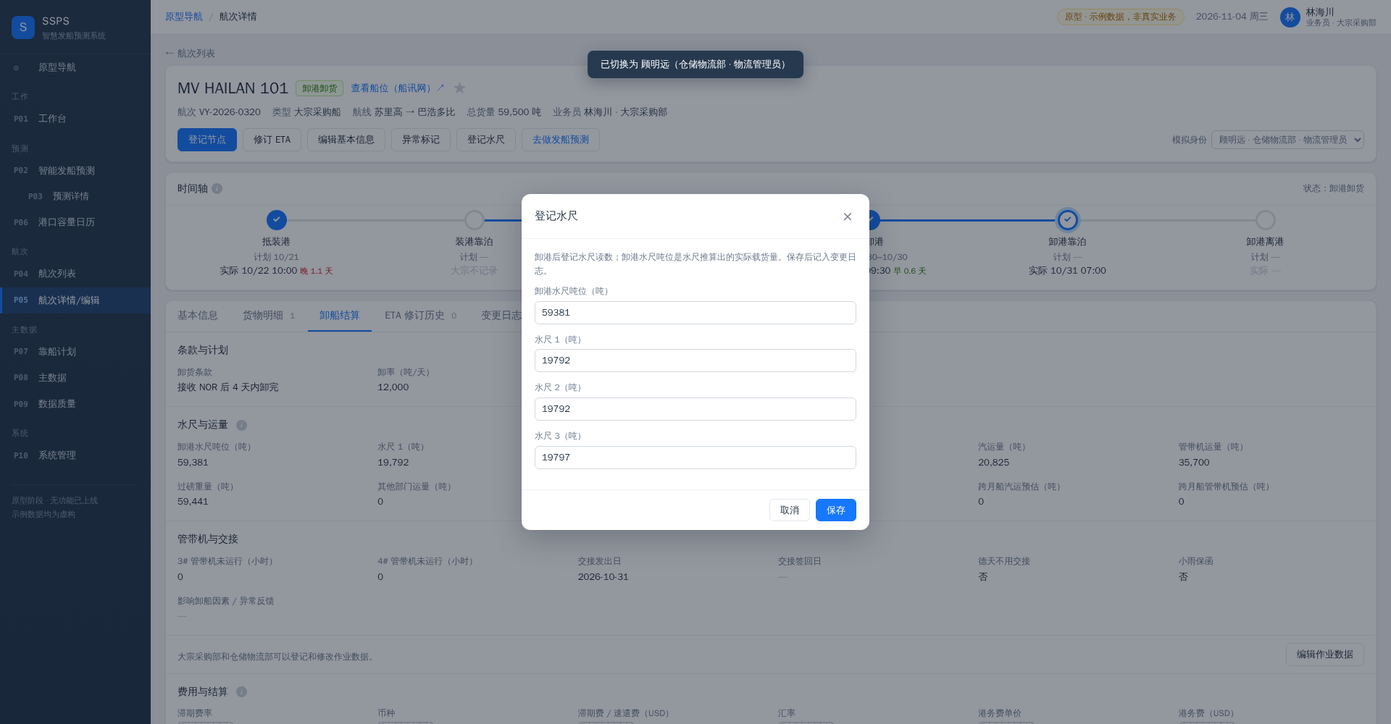
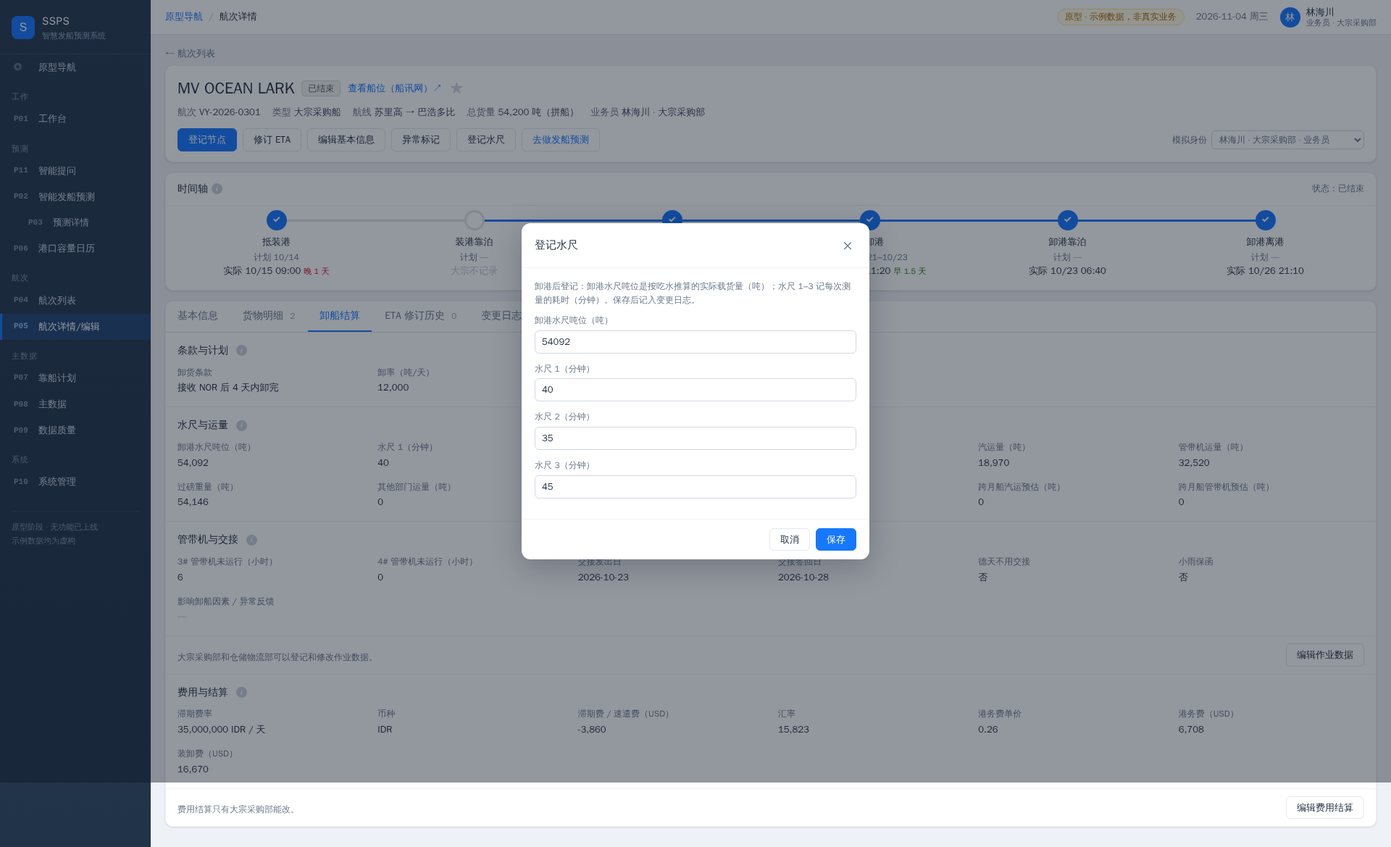
落实外部评审第一轮的业务答复：池内船一律计占用、靠船计划导入过滤、断料按品名/总库存分层、导出表按 17 张；水尺 1–3 单位改为分钟，补小雨保函、CQD 释义
Claude-Session: https://claude.ai/code/session_01S7EgPzREeeBA8rsxhMLUP6

diff --git a/prototype/P05-voyage-detail.html b/prototype/P05-voyage-detail.html
@@ -182,7 +182,7 @@ textarea.inp{height:auto;min-height:60px;padding:6px 9px}
   // 字段分两块：作业数据（水尺、运量、管带机、交接）和费用结算（金额，按部门隔离）
   const OPS = [
     ['条款与计划', [['terms', '卸货条款', 'text'], ['rate', '卸率（吨/天）', 'num'], ['allowDays', '允许卸货天数', 'num'], ['turn', 'TURN TIME（小时）', 'num']]],
-    ['水尺与运量', [['gauge', '卸港水尺吨位（吨）', 'num'], ['g1', '水尺 1（吨）', 'num'], ['g2', '水尺 2（吨）', 'num'], ['g3', '水尺 3（吨）', 'num'], ['truck', '汽运量（吨）', 'num'], ['belt', '管带机运量（吨）', 'num'], ['weigh', '过磅重量（吨）', 'num'], ['other', '其他部门运量（吨）', 'num'], ['carTurn', '倒运车数（车）', 'num'], ['x1Cars', 'X1 管带机车数（车）', 'num'], ['crossTruck', '跨月船汽运预估（吨）', 'num'], ['crossBelt', '跨月船管带机预估（吨）', 'num']]],
+    ['水尺与运量', [['gauge', '卸港水尺吨位（吨）', 'num'], ['g1', '水尺 1（分钟）', 'num'], ['g2', '水尺 2（分钟）', 'num'], ['g3', '水尺 3（分钟）', 'num'], ['truck', '汽运量（吨）', 'num'], ['belt', '管带机运量（吨）', 'num'], ['weigh', '过磅重量（吨）', 'num'], ['other', '其他部门运量（吨）', 'num'], ['carTurn', '倒运车数（车）', 'num'], ['x1Cars', 'X1 管带机车数（车）', 'num'], ['crossTruck', '跨月船汽运预估（吨）', 'num'], ['crossBelt', '跨月船管带机预估（吨）', 'num']]],
     ['管带机与交接', [['beltOff3', '3# 管带机未运行（小时）', 'num'], ['beltOff4', '4# 管带机未运行（小时）', 'num'], ['sendDay', '交接发出日', 'date'], ['backDay', '交接签回日', 'date'], ['noHandover', '德天不用交接', 'bool'], ['rain', '小雨保函', 'bool'], ['issue', '影响卸船因素 / 异常反馈', 'textarea']]],
   ];
   const MONEY = [['demRate', '滞期费率', 'num'], ['demCur', '币种', 'cur'], ['demUsd', '滞期费 / 速遣费（USD）', 'num'], ['fx', '汇率', 'num'], ['portUnit', '港务费单价', 'num'], ['portFee', '港务费（USD）', 'num'], ['loadFee', '装卸费（USD）', 'num']];
@@ -214,7 +214,7 @@ textarea.inp{height:auto;min-height:60px;padding:6px 9px}
     if (!seeMoney()) money = '<div class="sec"><h3>费用与结算' + C.ic('金额类字段按部门隔离：只有大宗采购部（及系统管理员）能看。用右上角的「模拟身份」可以切换体验。') + '</h3><div class="kvg">' + MONEY.map((f) => '<div class="it"><div class="k">' + f[1] + '</div><div class="v"><span class="lock">无权限查看</span></div></div>').join('') + '</div></div>';
     else money = '<div class="sec"><h3>费用与结算' + C.ic('金额类字段按部门隔离：只有大宗采购部（及系统管理员）能看和改。') + '</h3><div class="kvg">' + MONEY.map((f) => itemX('m_' + f[0], f[1], fv(f[2], x[f[0]]) + (f[0] === 'demRate' && x.demCur ? ' ' + x.demCur + ' / 天' : ''), em ? finp(f[2], f[0], x[f[0]]) : null)).join('') + '</div></div>' +
       (canMoney() ? '<div class="bar2"><span class="note2">' + (em ? '编辑中：金额只有大宗采购部能改。' : '费用结算只有大宗采购部能改。') + '</span><span style="display:flex;gap:8px">' + (em ? '<button class="btn" id="xCancel">取消</button><button class="btn primary" id="xSaveMoney">保存费用结算</button>' : '<button class="btn" id="xEditMoney">编辑费用结算</button>') + '</span></div>' : '');
-    return grp(OPS[0][0], OPS[0][1]) + grp(OPS[1][0], OPS[1][1], '水尺是按船的吃水深度推算载货量的测量，卸港后登记。作业数据由大宗采购部和仓储物流部登记，这个权限划分待确认。') + grp(OPS[2][0], OPS[2][1]) + opsBar + money;
+    return grp(OPS[0][0], OPS[0][1], '卸货条款为 CQD（按港口习惯尽快装卸）时没有固定卸率，卸率留空。') + grp(OPS[1][0], OPS[1][1], '卸港水尺吨位是按船的吃水推算的实际载货量（吨）；水尺 1–3 记每次水尺测量的耗时（分钟）。作业数据由大宗采购部和仓储物流部登记，这个权限划分待确认。') + grp(OPS[2][0], OPS[2][1], '小雨保函：雨天装卸货物时出具的责任保证文件，勾选表示本船出具了。') + opsBar + money;
   }
   // 保存：作业数据 / 费用结算 / 销售扩展
   function saveSettle(kind) {
@@ -236,8 +236,8 @@ textarea.inp{height:auto;min-height:60px;padding:6px 9px}
   function gaugeModal() {
     const x = M.bulkSettle[v.id] || {};
     C.modal({ title: '登记水尺', ok: '保存', width: 480, body:
-      '<div class="note2" style="margin:0 0 10px">卸港后登记水尺读数；卸港水尺吨位是水尺推算出的实际载货量。保存后记入变更日志。</div>' +
-      ['gauge:卸港水尺吨位（吨）', 'g1:水尺 1（吨）', 'g2:水尺 2（吨）', 'g3:水尺 3（吨）'].map((q) => { const [k, l] = q.split(':'); return '<div class="field"><div class="f-lab2">' + l + '</div><input class="inp" type="number" step="any" id="g_' + k + '" value="' + (x[k] == null ? '' : x[k]) + '"></div>'; }).join('') + '<div class="errtxt" id="ge"></div>',
+      '<div class="note2" style="margin:0 0 10px">卸港后登记：卸港水尺吨位是按吃水推算的实际载货量（吨）；水尺 1–3 记每次测量的耗时（分钟）。保存后记入变更日志。</div>' +
+      ['gauge:卸港水尺吨位（吨）', 'g1:水尺 1（分钟）', 'g2:水尺 2（分钟）', 'g3:水尺 3（分钟）'].map((q) => { const [k, l] = q.split(':'); return '<div class="field"><div class="f-lab2">' + l + '</div><input class="inp" type="number" step="any" id="g_' + k + '" value="' + (x[k] == null ? '' : x[k]) + '"></div>'; }).join('') + '<div class="errtxt" id="ge"></div>',
       onOk: (m) => { const cur = M.bulkSettle[v.id] || (M.bulkSettle[v.id] = {}); let n = 0;
         for (const k of ['gauge', 'g1', 'g2', 'g3']) { const raw = m.querySelector('#g_' + k).value; if (raw === '') continue; const val = +raw; if (!(val >= 0)) { m.querySelector('#ge').textContent = '水尺数值不能为负'; return false; } if (cur[k] !== val) { log('卸船作业 · ' + ({ gauge: '卸港水尺吨位', g1: '水尺 1', g2: '水尺 2', g3: '水尺 3' })[k], cur[k], val); cur[k] = val; n++; } }
         if (!n) { m.querySelector('#ge').textContent = '没有填写或没有修改'; return false; } C.persist(); ST.tab = 'ext'; render(); C.toast('水尺已登记，已记入变更日志'); } });

diff --git a/prototype/mock-data.js b/prototype/mock-data.js
@@ -393,7 +393,7 @@
   const M = window.MOCK; let i = 0;
   Object.keys(M.bulkSettle).forEach((id) => {
     const x = M.bulkSettle[id], g = x.gauge || 50000; i++;
-    Object.assign(x, { g1: Math.round(g * 0.3333), g2: Math.round(g * 0.3333), g3: g - 2 * Math.round(g * 0.3333), other: 0, carTurn: 150 + i * 6, x1Cars: 40 + i * 2, crossTruck: 0, crossBelt: 0, noHandover: false, fx: 15820 + i * 3, portUnit: 0.26 });
+    Object.assign(x, { g1: 35 + (i % 4) * 5, g2: 30 + (i % 3) * 5, g3: 40 + (i % 5) * 5, other: 0, carTurn: 150 + i * 6, x1Cars: 40 + i * 2, crossTruck: 0, crossBelt: 0, noHandover: false, fx: 15820 + i * 3, portUnit: 0.26 });
   });
 })();
 

diff --git a/docs/implementation-plan.md b/docs/implementation-plan.md
@@ -4,7 +4,7 @@
 
 妙搭版是「智慧发船预测」的新主系统：一期飞书多维表格为主数据、应用为唯一录入入口，约 8 周分三个里程碑上线，与德龙版并行验收后替换。
 
-本计划依据 2026-11-04 的企微导出（15 张表）和 13 轮 grill-me 访谈写成。下表是访谈锁定的决策，后续章节都以它为前提；已在德龙版锁定的业务规则（CMR 口径、23 泊位池、吨级匹配、≤15 天/＞15 天分流、Plan A/B、无数据灰色斜线、详情页 S1 溯源）全部沿用，不重新讨论。
+本计划依据 2026-11-04 的企微导出（17 张表，以 docs/data-profile 摘要为准）和 13 轮 grill-me 访谈写成。下表是访谈锁定的决策，后续章节都以它为前提；已在德龙版锁定的业务规则（CMR 口径、23 泊位池、吨级匹配、≤15 天/＞15 天分流、Plan A/B、无数据灰色斜线、详情页 S1 溯源）全部沿用，不重新讨论。
 
 | 编号 | 决策点 | 锁定结论 |
 | --- | --- | --- |
@@ -139,7 +139,7 @@ flowchart LR
 | 7 | 生效日期 | 日期 | 是 |  |
 | 8 | 备注 | 文本 |  | LN16 按普通 1 万吨泊位处理 |
 
-不在表内的泊位（L1/L2/L3/L5/L9/L10 等）不建行；靠船计划中出现时保留原文并标「非德信池」，不进 CMR。CMR 分母按查询货量取「容量吨级 ≥ 货量」的启用泊位。
+不在表内的泊位（L1/L2/L3/L5/L9/L10 等）不建行；靠船计划中出现时保留原文并标「非德信池」，不进 CMR。池内泊位上的船不论从属单位、不论「是否德信」，一律计入占用（2026-11-05 Leyinet 确认）；「是否德信」只做展示和统计，不参与 CMR。CMR 分母按查询货量取「容量吨级 ≥ 货量」的启用泊位。
 
 ### T03 船舶主档
 
@@ -242,20 +242,20 @@ flowchart LR
 | --- | --- | --- | --- |
 | 1 | 航次 | 双向关联 → T04，唯一 |  |
 | 2 | 卸货条款 | 文本 | 保留原文，如「接收NOR后4天内卸完」 |
-| 3 | 卸率（吨/天） | 数字 | 从「12000吨/天」解析；CQD 留空 |
+| 3 | 卸率（吨/天） | 数字 | 从「12000吨/天」解析；原文为 CQD（按港口习惯尽快装卸，没有固定卸率）时留空，卸货条款里保留 CQD |
 | 4 | 允许卸货天数 | 数字 | 从条款解析 |
 | 5 | TURN TIME（小时） | 数字 | 12 / 24 |
 | 6 | 滞期费率 + 币种 | 数字 + 单选 | 「Rp35,000,000/天」拆为 35000000 + IDR |
 | 7 | 滞期费 / 速遣费（USD） | 数字 |  |
 | 8 | 卸港水尺吨位 | 数字 |  |
-| 9 | 水尺 1–3 | 数字 ×3 | 「4st水尺」整列为空，删除 |
+| 9 | 水尺 1–3 | 数字 ×3 | 原「1st/2st/3st水尺」，单位是分钟（每次水尺测量的耗时，不是吨位）；「4st水尺」整列为空，删除 |
 | 10 | 汇率、港务费单价、港务费（USD）、装卸费（USD） | 数字 | 「$8,010.11」转数字 |
 | 11 | 汽运量、管带机运量、过磅重量、其他部门运量（吨） | 数字 |  |
 | 12 | 倒运车数、X1 管带机车数 | 数字 | 「180车」转数字 |
 | 13 | 跨月船汽运/管带机预估（吨） | 数字 |  |
 | 14 | 3# / 4# 管带机未运行（小时） | 数字 | 2# 整列为空，删除 |
 | 15 | 交接发出日 / 交接签回日 | 日期 | 原「3.17日发出」「2.8日签回」解析；「德天不用交接」落成独立复选框字段 |
-| 16 | 小雨保函 | 复选框 |  |
+| 16 | 小雨保函 | 复选框 | 雨天装卸货物时出具的责任保证文件，勾选表示本船出具了 |
 | 17 | 影响卸船因素/异常反馈 | 多行文本 |  |
 
 删除的大宗字段：整列为空的「价格（到岸价）」「价格类型」「可用管带机」「X1管带机吨位」；由状态替代的「卸船进度」「系统/人工船舶动态」；由公式替代的六个用时文本列和「月份按离港算」；辅助列「今日在港」「公式」「到港日」「业务类型」。
@@ -289,6 +289,8 @@ flowchart LR
 ### T09a / T09b 兼容表、T10 靠船计划（最新一期）
 
 T09a 保留商务海运表原 33 列、T09b 保留大宗到船计划表原 87 列的列名和顺序，每行对应 T05 的一行货物明细，由后端全量重写（每日 15:50 + 航次保存后增量），任何人不可改。T10 只保留预测用到的 IMIP 列（码头、泊位原文、泊位→T02、船名、船长、船舶类型、物资、吨位、预计到港、预计靠泊、预计卸完、从属单位、是否德信、匹配航次→T04、批次号），每次导入整表覆盖。
+
+**靠船计划导入过滤（2026-11-05 Leyinet 同意加过滤，天数暂定）**：每个批次全部原始行照存 D04 快照，只有通过下面两条的行才写入 T10、参与 CMR：① 预计卸完 ≥ 导入当天，已卸完的历史行不进 T10；② 日期合理性：预计到港、预计靠泊、预计卸完任何一项早于导入日 90 天或晚于导入日 90 天，或者预计卸完早于预计靠泊，都标「日期异常」、不进 CMR，并进数据质量清单。90 天为暂定值。
 
 ## 5. 妙搭应用库（PostgreSQL）
 
@@ -402,7 +404,7 @@ m\_port、m\_berth、m\_vessel、m\_voyage、m\_cargo、m\_bulk\_settle、m\_sal
 | A29 | POST | /api/predictions/parse | 自然语言提问解析：关键词识别船型、物料、货量、航线、到港截止日（只解析，不生成数值） | 全 |
 | A30 | GET / POST | /api/inventory, /api/inventory/import | 库存消耗模拟表：查询各物料可用天数与断料日；导入新一期（Excel） | 全 / 物、系 |
 
-**库存断料约束（2026-11-04 新增，K14 已确认纳入一期）**：预测请求可带「物料」。库存消耗模拟表的序列已包含已排定到货，断料日 = 模拟库存首次降到 0 的日期；到港窗口最后一天必须不晚于「断料日 − 缓冲天数」（暂定 3 天）。这是候选过滤的硬约束，不是评分；赶不上时改为「最快到港」并如实提示断料天数。库存提问时候选日期各按自己距今天数分流（≤15 天用靠船计划、＞15 天用航次表），两条路径各自排序，不跨路径比较数值。
+**库存断料约束（2026-11-04 新增，K14 已确认纳入一期）**：预测请求可带「物料」。库存消耗模拟表的序列已包含已排定到货，断料日 = 模拟库存首次降到 0 的日期；到港窗口最后一天必须不晚于「断料日 − 缓冲天数」（暂定 3 天）。物料层级：提问里说出具体品名（如烧结石灰石）就按该品名的序列判断断料，只说物料类型（铁矿 / 焦煤）就按该类型的总库存判断（2026-11-05 Leyinet 同意）。这是候选过滤的硬约束，不是评分；赶不上时改为「最快到港」并如实提示断料天数。库存提问时候选日期各按自己距今天数分流（≤15 天用靠船计划、＞15 天用航次表），两条路径各自排序，不跨路径比较数值。
 
 **预测接口的硬门禁**（沿用德龙版根因教训）：路径只按日期分流（目标到港日距今 ≤15 天 / ＞15 天），不按数据有无分流；规则引擎输出的数值不允许被任何生成式模型改写，宣船文案只能引用引擎结果；容量指标只用 CMR；Plan B 要求 CMR 余量 ≥30%，无完整数据候选时从稀疏候选中取并标「低可信」。
 
@@ -618,4 +620,4 @@ gantt
 - [lark-apps SQL 规范](https://raw.githubusercontent.com/larksuite/cli/main/skills/lark-apps/references/lark-apps-db-execute.md)：PostgreSQL、审计列、RLS
 - [lark-apps 自动化](https://raw.githubusercontent.com/larksuite/cli/main/skills/lark-apps/references/lark-apps-automation.md)：定时 / 记录变更 / Webhook / 审批触发器
 - [飞书开放平台·多维表格使用限制](https://open.larkoffice.com/document/uAjLw4CM/ukTMukTMukTM/bitable/notification.md)：单表记录数、批量与分页上限（该页已标为不再维护）
-- 企微导出文件（2026-11-04，15 张表）：所有行数、填充率与归并估算
+- 企微导出文件（2026-11-04，17 张表）：所有行数、填充率与归并估算

diff --git a/docs/open-questions.md b/docs/open-questions.md
@@ -80,14 +80,15 @@
 
 以下是评审提出、经核对后属于「业务上要你确认」的事项，未确认前一律不自行假定。
 
-- [ ] **「是否德信」怎么判定**：靠船计划原始表有「从属单位」之类的列，但原型里直接把泊位池内的所有行都算占用。要确认：池内泊位上非德信的船是否也算占用？德信的判定规则是什么？
-- [ ] **LN16–LN22 在真实靠船计划里缺失**：若这些泊位在计划表里没有任何行，CMR 会把它们当 100% 空闲，结果偏乐观。要确认它们是真没有船，还是计划表不登记（不登记则需要别的数据源）。
-- [ ] **靠船计划导入过滤**：真实表含 8 月以来的历史行，另有 1 行日期异常（2029 年）。要确认导入时的过滤范围（只取今天前后多少天）和日期合理性校验规则。
-- [ ] **断料按总库存还是按子品名**：库存表同一物料有汇总和子品名多层，按哪一层判断断料？
+- [x] **「是否德信」怎么判定**——2026-11-05 Leyinet 确认：保持原型逻辑，池内泊位上的船不论是否德信都计入占用；「是否德信」只做展示。原问题：：靠船计划原始表有「从属单位」之类的列，但原型里直接把泊位池内的所有行都算占用。要确认：池内泊位上非德信的船是否也算占用？德信的判定规则是什么？
+- [x] **LN16–LN22 在真实靠船计划里缺失**——2026-11-05 Leyinet：不用考虑，按现有规则计算。原问题：：若这些泊位在计划表里没有任何行，CMR 会把它们当 100% 空闲，结果偏乐观。要确认它们是真没有船，还是计划表不登记（不登记则需要别的数据源）。
+- [x] **靠船计划导入过滤**——2026-11-05 Leyinet 同意加过滤。已写入实施计划 T10 一节：全部原始行存 D04，只有「预计卸完 ≥ 导入当天」且日期在导入日前后 90 天内（暂定）的行进 T10、参与 CMR，异常行进数据质量清单。90 天这个数待你确认。原问题：：真实表含 8 月以来的历史行，另有 1 行日期异常（2029 年）。要确认导入时的过滤范围（只取今天前后多少天）和日期合理性校验规则。
+- [x] **断料按总库存还是按子品名**——2026-11-05 Leyinet 同意原型做法：说了具体品名按该品名判断，只说类型（铁矿 / 焦煤）按该类型总库存判断。原问题：：库存表同一物料有汇总和子品名多层，按哪一层判断断料？
 - [ ] **错误值行（#VALUE! 等）**：约 248 行为公式错误。原型按「标记、不参与计算」，要确认业务上是否认可，还是需要回填。
 - [ ] **生铁序列长度**：生铁有 226 行，远长于其他品名，要确认是真实的长周期模拟还是误填。
 - [ ] **可用天数公式**：库存表的「可用天数」绝大多数等于 库存 / 日耗，有约 114 行不一致，要确认以哪个为准（原型自己算）。
-- [ ] **术语表**：使用单位（DSI / DCI / DXI / 金瑞）、水尺 1st/2st/3st、X1 管带机 / 车数、交接状态、小雨保函、CQD、储运 1/2/3 的准确含义，由你补一份中文释义，避免实现时猜。
+- [x] **术语（已答部分）**——2026-11-05 Leyinet：水尺 1st/2st/3st 单位是分钟（每次测量耗时，不是吨位）；小雨保函 = 雨天装卸货物时出具的责任保证文件；CQD = 按港口习惯尽快装卸（无固定卸率）。已改 T06、建表清单和 P05 原型（原型原先把水尺 1–3 标成了吨，已更正）。
+- [ ] **术语（还没答）**：使用单位 DSI / DCI / DXI / 金瑞分别指哪个厂区或公司；X1 管带机、X1 管带机车数指什么；交接状态 1 / 2 的取值和含义；储运 1 / 2 / 3 指什么。
 - [ ] **海船与驳船泊位**：CMR 分母里是否区分海船泊位和驳船泊位；吨级档（T08）原型暂未使用，属于已知简化。
-- [ ] **导出表数量口径**：文档里写「15 张表」，摘要里分了 17 节（含 7 个「不同步」表）。请确认「15」指的是哪 15 张，以便迁移清单对齐。
+- [x] **导出表数量口径**——2026-11-05 Leyinet：以摘要为准，按 17 张表，文档已改。原问题：：文档里写「15 张表」，摘要里分了 17 节（含 7 个「不同步」表）。请确认「15」指的是哪 15 张，以便迁移清单对齐。
 - [ ] **请把两份真实文件作为附件发到会话里**（只做核对，不提交）：导入靠船计划 20261104.xlsx、德信物流船舶动态表.xlsx，以及《泊位容量表》（2026-10-08，T02 需要）。

diff --git a/docs/schema/base-build-checklist.md b/docs/schema/base-build-checklist.md
@@ -196,14 +196,14 @@
 | --- | --- | --- | --- | --- |
 | 1 | 航次 | 双向关联 → T04，唯一 | 关联 |  |
 | 2 | 卸货条款 | 文本 | 作业 | 保留原文，如「接收NOR后4天内卸完」 |
-| 3 | 卸率（吨/天） | 数字 | 作业 | 从「12000吨/天」解析；CQD 留空 |
+| 3 | 卸率（吨/天） | 数字 | 作业 | 从「12000吨/天」解析；CQD（按港口习惯尽快装卸）时留空 |
 | 4 | 允许卸货天数 | 数字 | 作业 | 从条款解析 |
 | 5 | TURN TIME（小时） | 数字 | 作业 | 12 / 24 |
 | 6 | 滞期费率 | 数字 | 费用 | 「Rp35,000,000/天」拆为 35000000 |
 | 7 | 币种 | 单选 | 费用 | IDR / USD |
 | 8 | 滞期费 / 速遣费（USD） | 数字 | 费用 |  |
 | 9 | 卸港水尺吨位 | 数字 | 作业 |  |
-| 10 | 水尺 1、水尺 2、水尺 3 | 数字 ×3 | 作业 | 「4st水尺」整列为空，已删除 |
+| 10 | 水尺 1、水尺 2、水尺 3 | 数字 ×3 | 作业 | 单位：分钟（每次水尺测量耗时），字段名可写成「水尺 1（分钟）」；「4st水尺」整列为空，已删除 |
 | 11 | 汇率 | 数字 | 费用 |  |
 | 12 | 港务费单价 | 数字 | 费用 |  |
 | 13 | 港务费（USD） | 数字 | 费用 | 「$8,010.11」转数字 |
@@ -214,7 +214,7 @@
 | 18 | 3# 管带机未运行（小时）、4# 管带机未运行（小时） | 数字 ×2 | 作业 | 2# 整列为空，已删除 |
 | 19 | 交接发出日、交接签回日 | 日期 ×2 | 作业 | 原「3.17日发出」「2.8日签回」解析 |
 | 20 | 德天不用交接 | 复选框 | 作业 | 新增，原文「德天不用交接」单独标记 |
-| 21 | 小雨保函 | 复选框 | 作业 |  |
+| 21 | 小雨保函 | 复选框 | 作业 | 雨天装卸货物时出具的责任保证文件 |
 | 22 | 影响卸船因素/异常反馈 | 多行文本 | 作业 |  |
 
 - 本表的序号是清单自己的，不对应规格文件里的序号（规格里有几行合并了多个字段）。
@@ -260,7 +260,7 @@
 | --- | --- | --- | --- |
 | 1 | 码头 | 文本 |  |
 | 2 | 泊位原文 | 文本 | 靠船计划里的原始写法 |
-| 3 | 泊位 | 单向关联 → T02 | 表外泊位留空，留空即视为「非德信池」，不计入泊位余量 |
+| 3 | 泊位 | 单向关联 → T02 | 表外泊位留空，留空即视为「非德信池」，不计入泊位余量；池内泊位上的船不论是否德信都计入占用 |
 | 4 | 船名 | 文本 |  |
 | 5 | 船长 | 数字 |  |
 | 6 | 船舶类型 | 文本 |  |

diff --git a/docs/schema/T06-bulk-settlement.md b/docs/schema/T06-bulk-settlement.md
@@ -4,20 +4,20 @@
 | --- | --- | --- | --- |
 | 1 | 航次 | 双向关联 → T04，唯一 |  |
 | 2 | 卸货条款 | 文本 | 保留原文，如「接收NOR后4天内卸完」 |
-| 3 | 卸率（吨/天） | 数字 | 从「12000吨/天」解析；CQD 留空 |
+| 3 | 卸率（吨/天） | 数字 | 从「12000吨/天」解析；原文为 CQD（按港口习惯尽快装卸，没有固定卸率）时留空，卸货条款里保留 CQD |
 | 4 | 允许卸货天数 | 数字 | 从条款解析 |
 | 5 | TURN TIME（小时） | 数字 | 12 / 24 |
 | 6 | 滞期费率 + 币种 | 数字 + 单选 | 「Rp35,000,000/天」拆为 35000000 + IDR |
 | 7 | 滞期费 / 速遣费（USD） | 数字 |  |
 | 8 | 卸港水尺吨位 | 数字 |  |
-| 9 | 水尺 1–3 | 数字 ×3 | 「4st水尺」整列为空，删除 |
+| 9 | 水尺 1–3 | 数字 ×3 | 原「1st/2st/3st水尺」，单位是分钟（每次水尺测量的耗时，不是吨位）；「4st水尺」整列为空，删除 |
 | 10 | 汇率、港务费单价、港务费（USD）、装卸费（USD） | 数字 | 「$8,010.11」转数字 |
 | 11 | 汽运量、管带机运量、过磅重量、其他部门运量（吨） | 数字 |  |
 | 12 | 倒运车数、X1 管带机车数 | 数字 | 「180车」转数字 |
 | 13 | 跨月船汽运/管带机预估（吨） | 数字 |  |
 | 14 | 3# / 4# 管带机未运行（小时） | 数字 | 2# 整列为空，删除 |
 | 15 | 交接发出日 / 交接签回日 | 日期 | 原「3.17日发出」「2.8日签回」解析；「德天不用交接」落成独立复选框字段 |
-| 16 | 小雨保函 | 复选框 |  |
+| 16 | 小雨保函 | 复选框 | 雨天装卸货物时出具的责任保证文件，勾选表示本船出具了 |
 | 17 | 影响卸船因素/异常反馈 | 多行文本 |  |
 
 删除的大宗字段：整列为空的「价格（到岸价）」「价格类型」「可用管带机」「X1管带机吨位」；由状态替代的「卸船进度」「系统/人工船舶动态」；由公式替代的六个用时文本列和「月份按离港算」；辅助列「今日在港」「公式」「到港日」「业务类型」。

diff --git a/docs/schema/T09-T10-compat-and-berth-plan.md b/docs/schema/T09-T10-compat-and-berth-plan.md
@@ -1,3 +1,5 @@
 # T09a / T09b 兼容表、T10 靠船计划（最新一期）
 
 T09a 保留商务海运表原 33 列、T09b 保留大宗到船计划表原 87 列的列名和顺序，每行对应 T05 的一行货物明细，由后端全量重写（每日 15:50 + 航次保存后增量），任何人不可改。T10 只保留预测用到的 IMIP 列（码头、泊位原文、泊位→T02、船名、船长、船舶类型、物资、吨位、预计到港、预计靠泊、预计卸完、从属单位、是否德信、匹配航次→T04、批次号），每次导入整表覆盖。
+
+**靠船计划导入过滤（2026-11-05 Leyinet 同意加过滤，天数暂定）**：每个批次全部原始行照存 D04 快照，只有通过下面两条的行才写入 T10、参与 CMR：① 预计卸完 ≥ 导入当天，已卸完的历史行不进 T10；② 日期合理性：预计到港、预计靠泊、预计卸完任何一项早于导入日 90 天或晚于导入日 90 天，或者预计卸完早于预计靠泊，都标「日期异常」、不进 CMR，并进数据质量清单。90 天为暂定值。

diff --git a/docs/schema/T02-berth.md b/docs/schema/T02-berth.md
@@ -11,4 +11,4 @@
 | 7 | 生效日期 | 日期 | 是 |  |
 | 8 | 备注 | 文本 |  | LN16 按普通 1 万吨泊位处理 |
 
-不在表内的泊位（L1/L2/L3/L5/L9/L10 等）不建行；靠船计划中出现时保留原文并标「非德信池」，不进 CMR。CMR 分母按查询货量取「容量吨级 ≥ 货量」的启用泊位。
+不在表内的泊位（L1/L2/L3/L5/L9/L10 等）不建行；靠船计划中出现时保留原文并标「非德信池」，不进 CMR。池内泊位上的船不论从属单位、不论「是否德信」，一律计入占用（2026-11-05 Leyinet 确认）；「是否德信」只做展示和统计，不参与 CMR。CMR 分母按查询货量取「容量吨级 ≥ 货量」的启用泊位。

diff --git a/docs/review/business-background.md b/docs/review/business-background.md
@@ -20,7 +20,7 @@
 
 ## 3. 为什么要做这个系统
 
-现状是业务数据散落在企微在线表格里（一共 15 张表），靠人工维护：
+现状是业务数据散落在企微在线表格里（一共 17 张表），靠人工维护：
 
 - 同一条船的信息在三张表里各写一份，格式不统一。航次表里的港口有 295 种原始写法，大宗现表约 287 行缺 MMSI，船名里夹着承运方和航次号。
 - 没有「航程」这个数据：港口表里的「标准航行周期」整列为空。大宗到船计划表 643 行里只有 21 行有实际离装港时间，所以航程样本极少。
